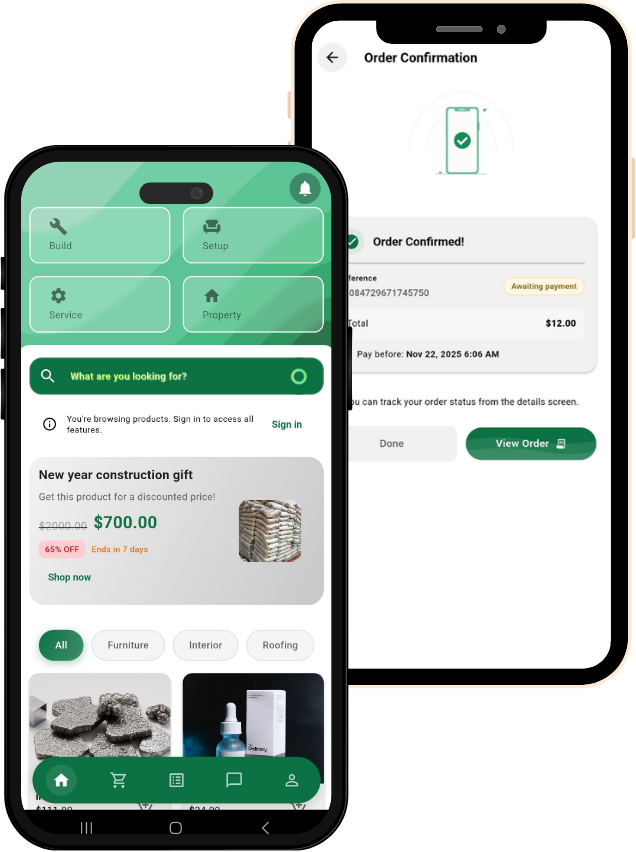
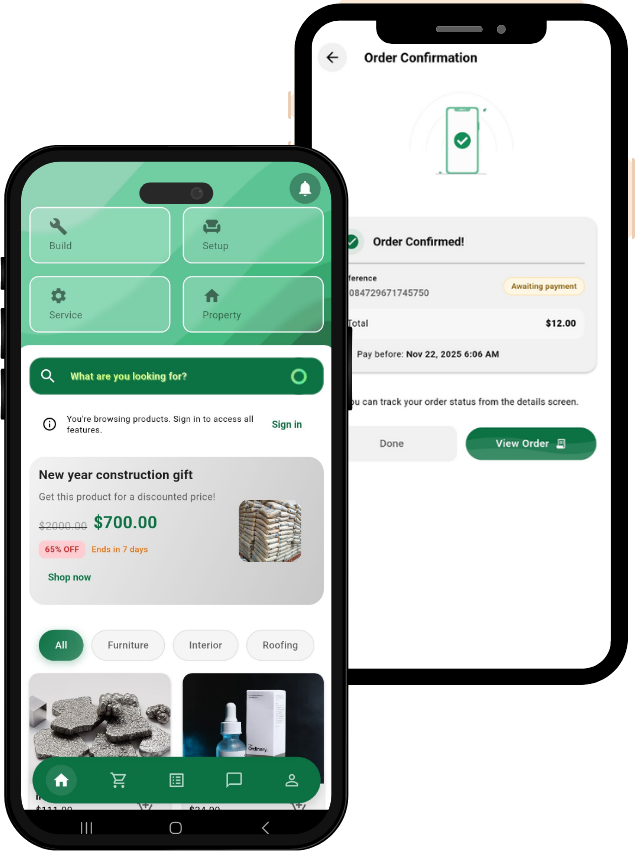
hero section and project section update

diff --git a/sections/Projects/ProjectStage.tsx b/sections/Projects/ProjectStage.tsx
@@ -98,11 +98,16 @@ function ProjectStageMotion({ projects }: ProjectStageProps) {
 
       cards.forEach((card, i) => {
         if (!card) return;
-        gsap.set(card, { ...CLAIM_ENTER, force3D: true });
+        gsap.set(card, {
+          ...(i === 0 ? CLAIM_SETTLED : CLAIM_ENTER),
+          force3D: true,
+        });
         const shine = shines[i];
         const glow = glows[i];
         if (shine) gsap.set(shine, { xPercent: -130, opacity: 0 });
-        if (glow) gsap.set(glow, { scale: 0.55, opacity: 0 });
+        if (glow) {
+          gsap.set(glow, i === 0 ? { scale: 1, opacity: 0.22 } : { scale: 0.55, opacity: 0 });
+        }
       });
 
       const tl = gsap.timeline();
@@ -115,49 +120,53 @@ function ProjectStageMotion({ projects }: ProjectStageProps) {
         const label = `project-${i}`;
         tl.addLabel(label);
 
-        // Claim pop — scale overshoot, 3D tilt forward, brightness snap
-        tl.fromTo(
-          card,
-          { ...CLAIM_ENTER },
-          {
-            ...CLAIM_SETTLED,
-            duration: enterDuration,
-            ease: claimEase,
-          },
-          label
-        );
-
-        if (shine) {
+        if (i === 0) {
+          tl.to(card, { duration: holdDuration }, label);
+        } else {
+          // Claim pop — scale overshoot, 3D tilt forward, brightness snap
           tl.fromTo(
-            shine,
-            { xPercent: -130, opacity: 0 },
-            { xPercent: 230, opacity: 0.9, duration: enterDuration * 0.85, ease: "power2.out" },
+            card,
+            { ...CLAIM_ENTER },
+            {
+              ...CLAIM_SETTLED,
+              duration: enterDuration,
+              ease: claimEase,
+            },
             label
           );
-          tl.to(shine, { opacity: 0, duration: enterDuration * 0.15 }, `${label}+=${enterDuration * 0.7}`);
-        }
 
-        if (glow) {
-          tl.fromTo(
-            glow,
-            { scale: 0.55, opacity: 0 },
-            { scale: 1.2, opacity: 0.55, duration: enterDuration * 0.55, ease: "power2.out" },
-            label
-          );
-          tl.to(
-            glow,
-            { scale: 1, opacity: 0.22, duration: enterDuration * 0.45, ease: "power1.out" },
-            `${label}+=${enterDuration * 0.55}`
-          );
-        }
+          if (shine) {
+            tl.fromTo(
+              shine,
+              { xPercent: -130, opacity: 0 },
+              { xPercent: 230, opacity: 0.9, duration: enterDuration * 0.85, ease: "power2.out" },
+              label
+            );
+            tl.to(shine, { opacity: 0, duration: enterDuration * 0.15 }, `${label}+=${enterDuration * 0.7}`);
+          }
 
-        tl.to(card, { duration: holdDuration }, `${label}+=${enterDuration}`);
+          if (glow) {
+            tl.fromTo(
+              glow,
+              { scale: 0.55, opacity: 0 },
+              { scale: 1.2, opacity: 0.55, duration: enterDuration * 0.55, ease: "power2.out" },
+              label
+            );
+            tl.to(
+              glow,
+              { scale: 1, opacity: 0.22, duration: enterDuration * 0.45, ease: "power1.out" },
+              `${label}+=${enterDuration * 0.55}`
+            );
+          }
+
+          tl.to(card, { duration: holdDuration }, `${label}+=${enterDuration}`);
+        }
 
         if (i < count - 1) {
           tl.to(
             card,
             { ...CLAIM_EXIT, duration: exitDuration, ease: claimExitEase },
-            `${label}+=${enterDuration + holdDuration}`
+            `${label}+=${i === 0 ? holdDuration : enterDuration + holdDuration}`
           );
           if (glow) {
             tl.to(glow, { opacity: 0, scale: 0.7, duration: exitDuration * 0.8 }, `<`);

diff --git a/sections/Hero/hero.config.ts b/sections/Hero/hero.config.ts
@@ -59,13 +59,15 @@ export const heroBehavior = {
    */
   primaryHoldEnd: 0.07,
   primaryFadeEnd: 0.2,
-  /** Equal-length windows with gaps; line 3 exits only as hero progress reaches 1. */
+  /** Equal windows from primary exit → hero end; last line fades only at the final scroll. */
   secondaryLineWindows: [
-    { start: 0.18, end: 0.4 },
-    { start: 0.47, end: 0.69 },
+    { start: 0.2, end: 0.44 },
+    { start: 0.48, end: 0.72 },
     { start: 0.76, end: 1 },
   ] as const,
-  secondaryLineFade: 0.07,
+  secondaryLineFade: 0.055,
+  /** Last line exit — kept short so remaining frames are used as visible hold time. */
+  secondaryLineLastExitFade: 0.035,
 } as const;
 
 export type HeroLineWindow = (typeof heroBehavior.secondaryLineWindows)[number];
@@ -80,23 +82,31 @@ export function heroPrimaryOpacity(progress: number): number {
 }
 
 /** Secondary line: ease in at window start, hold, ease out at window end (mirrors entrance motion). */
-export function heroLineOpacity(progress: number, window: HeroLineWindow): number {
-  const fade = heroBehavior.secondaryLineFade;
+export function heroLineOpacity(
+  progress: number,
+  window: HeroLineWindow,
+  options?: { isLast?: boolean },
+): number {
+  const fadeIn = heroBehavior.secondaryLineFade;
+  const fadeOut =
+    options?.isLast && window.end === 1
+      ? heroBehavior.secondaryLineLastExitFade
+      : fadeIn;
   const { start, end } = window;
 
   if (progress <= start) return 0;
   if (progress > end) return 0;
 
-  const fadeInEnd = start + fade;
-  const fadeOutStart = end - fade;
+  const fadeInEnd = start + fadeIn;
+  const fadeOutStart = end - fadeOut;
 
   if (progress < fadeInEnd) {
-    const t = (progress - start) / fade;
+    const t = (progress - start) / fadeIn;
     return 1 - (1 - t) ** 3;
   }
 
   if (progress > fadeOutStart) {
-    const t = (progress - fadeOutStart) / fade;
+    const t = (progress - fadeOutStart) / fadeOut;
     return (1 - t) ** 3;
   }
 

diff --git a/sections/Projects/ProjectDossier.tsx b/sections/Projects/ProjectDossier.tsx
@@ -16,7 +16,7 @@ type ProjectDossierProps = {
 export function ProjectDossier({ project, index, className, claimed }: ProjectDossierProps) {
   return (
     <article
-      className={`grid h-full min-w-0 items-center gap-5 max-md:content-start md:grid-cols-[minmax(0,1.05fr)_minmax(0,0.95fr)] md:gap-10 lg:gap-14 ${className ?? ""}`}
+      className={`grid h-full min-w-0 items-center gap-5 max-md:content-start md:grid-cols-[minmax(0,1.12fr)_minmax(0,0.88fr)] md:gap-10 lg:gap-14 ${className ?? ""}`}
     >
       <div className="flex w-full min-w-0 items-center justify-center overflow-hidden">
         <div
@@ -25,7 +25,7 @@ export function ProjectDossier({ project, index, className, claimed }: ProjectDo
             claimed && "drop-shadow-[0_0_48px_color-mix(in_srgb,var(--color-signal)_35%,transparent)]",
           )}
         >
-          <div className="relative mx-auto h-[min(36vh,260px)] w-full max-w-full overflow-hidden rounded-lg sm:h-[min(44vh,340px)] md:h-[min(48vh,380px)]">
+          <div className="relative mx-auto h-[min(42vh,300px)] w-full max-w-full overflow-hidden rounded-lg sm:h-[min(50vh,380px)] md:h-[min(56vh,440px)] lg:h-[min(58vh,480px)]">
             <Image
               src={project.image}
               alt={`${project.name} interface screenshot`}

diff --git a/sections/Trust/MarqueeItem.tsx b/sections/Trust/MarqueeItem.tsx
@@ -17,15 +17,15 @@ type MarqueeItemProps = {
 export function MarqueeItem({ entry }: MarqueeItemProps) {
   return (
     <div className="flex w-[7.5rem] shrink-0 flex-col items-center gap-3 text-center sm:w-[8.5rem] md:w-[10rem] md:gap-4 lg:w-[11rem]">
-      <div className="relative flex h-[4.25rem] w-[4.25rem] shrink-0 items-center justify-center rounded-full bg-white p-3 shadow-[0_2px_14px_rgba(0,0,0,0.1)] md:h-[4.75rem] md:w-[4.75rem] md:p-3.5 lg:h-20 lg:w-20">
+      <div className="relative flex h-[4.5rem] w-[4.5rem] shrink-0 items-center justify-center rounded-full bg-white p-2 shadow-[0_2px_14px_rgba(0,0,0,0.1)] md:h-[4.75rem] md:w-[4.75rem] md:p-2.5 lg:h-20 lg:w-20">
         {entry.logo ? (
           <div className="relative h-full w-full">
             <Image
               src={entry.logo}
               alt=""
               fill
-              className="object-contain transition-transform duration-300 group-hover/item:scale-105"
-              sizes="80px"
+              className="object-contain object-center p-0.5 transition-transform duration-300 group-hover/item:scale-[1.03]"
+              sizes="(max-width: 768px) 60px, 72px"
             />
           </div>
         ) : (

diff --git a/sections/Hero/HeroOverlay.tsx b/sections/Hero/HeroOverlay.tsx
@@ -44,7 +44,9 @@ export function HeroOverlay({ progressRef }: HeroOverlayProps) {
 
       heroLines.forEach((_, index) => {
         const window = heroBehavior.secondaryLineWindows[index];
-        const reveal = window ? heroLineOpacity(p, window) : 0;
+        const reveal = window
+          ? heroLineOpacity(p, window, { isLast: index === heroLines.length - 1 })
+          : 0;
         el.style.setProperty(`--hero-line-${index}`, reveal.toFixed(4));
         secondaryPeak = Math.max(secondaryPeak, reveal);
       });

diff --git a/lib/content.ts b/lib/content.ts
@@ -169,7 +169,7 @@ export const projects = [
     detail: "",
     industry: "Construction",
     image: "/assets/bellbit/projects/lucky-path.png",
-    imageAspect: "664 / 436",
+    imageAspect: "6000 / 3959",
   },
   {
     id: "csms",

diff --git a/sections/Projects/Projects.tsx b/sections/Projects/Projects.tsx
@@ -13,7 +13,7 @@ export function Projects() {
         />
       </div>
 
-      <div className="mt-10 md:mt-20">
+      <div className="mt-6 md:mt-10">
         <ProjectStage projects={projects} />
       </div>
     </section>
